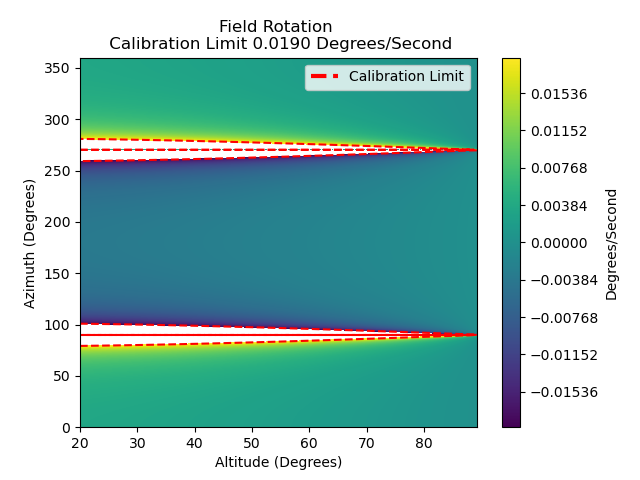
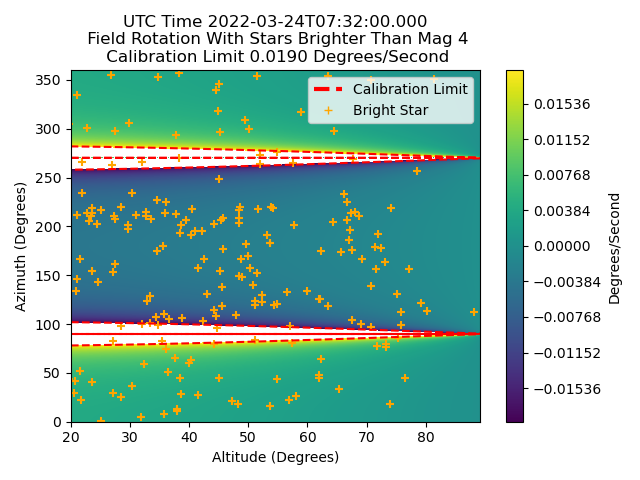
Added bright stars to rotation plots

diff --git a/scripts/availability.py b/scripts/availability.py
@@ -1,12 +1,15 @@
 import astropy.units as u
+from astropy.time import Time
 import matplotlib.pyplot as plt
 import numpy as np
 import matplotlib as mpl
 from matplotlib.ticker import MaxNLocator
 from matplotlib.lines import Line2D
-
-
+from astropy.coordinates import SkyCoord, EarthLocation, AltAz
+from astroquery.vizier import Vizier
 mpl.use('Agg')
+from skyfield.api import Star, load
+from skyfield.data import hipparcos
 
 def calc_field_rotation(Lat,Azs,Alts):
     K=15.04/3600 #Work in seconds
@@ -17,30 +20,56 @@ def calc_field_rotation(Lat,Azs,Alts):
     return rots
 
 if __name__=='__main__':
-    
-    Lat=-24.681546
-    Maxtrack=0.19/40 #Assume 0.19 degree pixel size and 40s calibration time
-    print(Maxtrack)
-    Azvals=np.linspace(0,90,1000)
+    print(hipparcos.URL)
+    obstime = Time('2022-03-24T07:32:00.000')
+    loc = EarthLocation.from_geodetic(lon=-70.317876,lat=-24.681546,height=2176.6*u.m) #SST1 Paranal Position                                                                                                                                
+    maglimit=4
+    plotstars=True
+    Maxtrack=0.19/10
+    Lat=loc.lat
+    with load.open('hip_main.dat') as f:
+        df = hipparcos.load_dataframe(f)
+    df=df[df['magnitude']<=maglimit]
+
+    ts=load.timescale()
+    t=ts.from_astropy(obstime)
+    planets = load('de421.bsp')
+    earth = planets['earth']
+    stars= Star.from_dataframe(df)
+    astrometric = earth.at(t).observe(stars)
+    ra, dec, distance = astrometric.radec()
+    sc=SkyCoord(ra=ra.radians*u.rad,dec=dec.radians*u.rad)
+    AltAz=AltAz(location=loc,obstime=obstime)
+    sc=sc.transform_to(AltAz)
+    alts=sc.alt.deg
+    azs=sc.az.deg
+    Azvals=np.linspace(20,89.2,1000)
     Altvals=np.linspace(0,360,1000)
     Azs,Alts=np.meshgrid(Azvals,Altvals)
     rots=calc_field_rotation(Lat,Azs,Alts)
     print(rots)
-    fig=plt.figure()
-    sigma=np.std(rots)
     vmin=-Maxtrack
     vmax=Maxtrack
     cmap = plt.get_cmap('PiYG')
     print(rots.min(),rots.max())
     levels = MaxNLocator(nbins=1000).tick_values(vmin, vmax)
     cf=plt.contourf(Azs,Alts,rots,levels=levels)
+    if plotstars==True:
+        plt.scatter(alts,azs,marker='+',color='orange')
     cs=plt.contour(cf,levels=[-Maxtrack,Maxtrack],colors='r',linestyles='dashed')
     plt.colorbar(cf,label='Degrees/Second')
     colors = ['red']
     lines = [Line2D([0], [0], color=c, linewidth=3, linestyle='dashed') for c in colors]
-    labels=['Calibration Limit']
-    plt.legend(lines,labels)
+    if plotstars==True:
+        lines.append(Line2D([],[],color='orange',linestyle='None',marker='+'))
+        labels=['Calibration Limit','Bright Star']
+    else:
+        lables=['Calibration Limit']
+    plt.legend(lines,labels,loc='upper right')
+    plt.xlim(20,89.2)
+    plt.ylim(0,360)
     plt.xlabel('Altitude (Degrees)')
     plt.ylabel('Azimuth (Degrees)')
-    plt.title('Calibration Limit '+'%.4f'%Maxtrack+ ' Degrees/Second')
+    plt.title('UTC Time '+str(obstime.utc)+'\n Field Rotation With Stars Brighter Than Mag '+str(maglimit)+'\n Calibration Limit '+'%.4f'%Maxtrack+ ' Degrees/Second')
+    plt.tight_layout()
     plt.savefig('rot.png')
